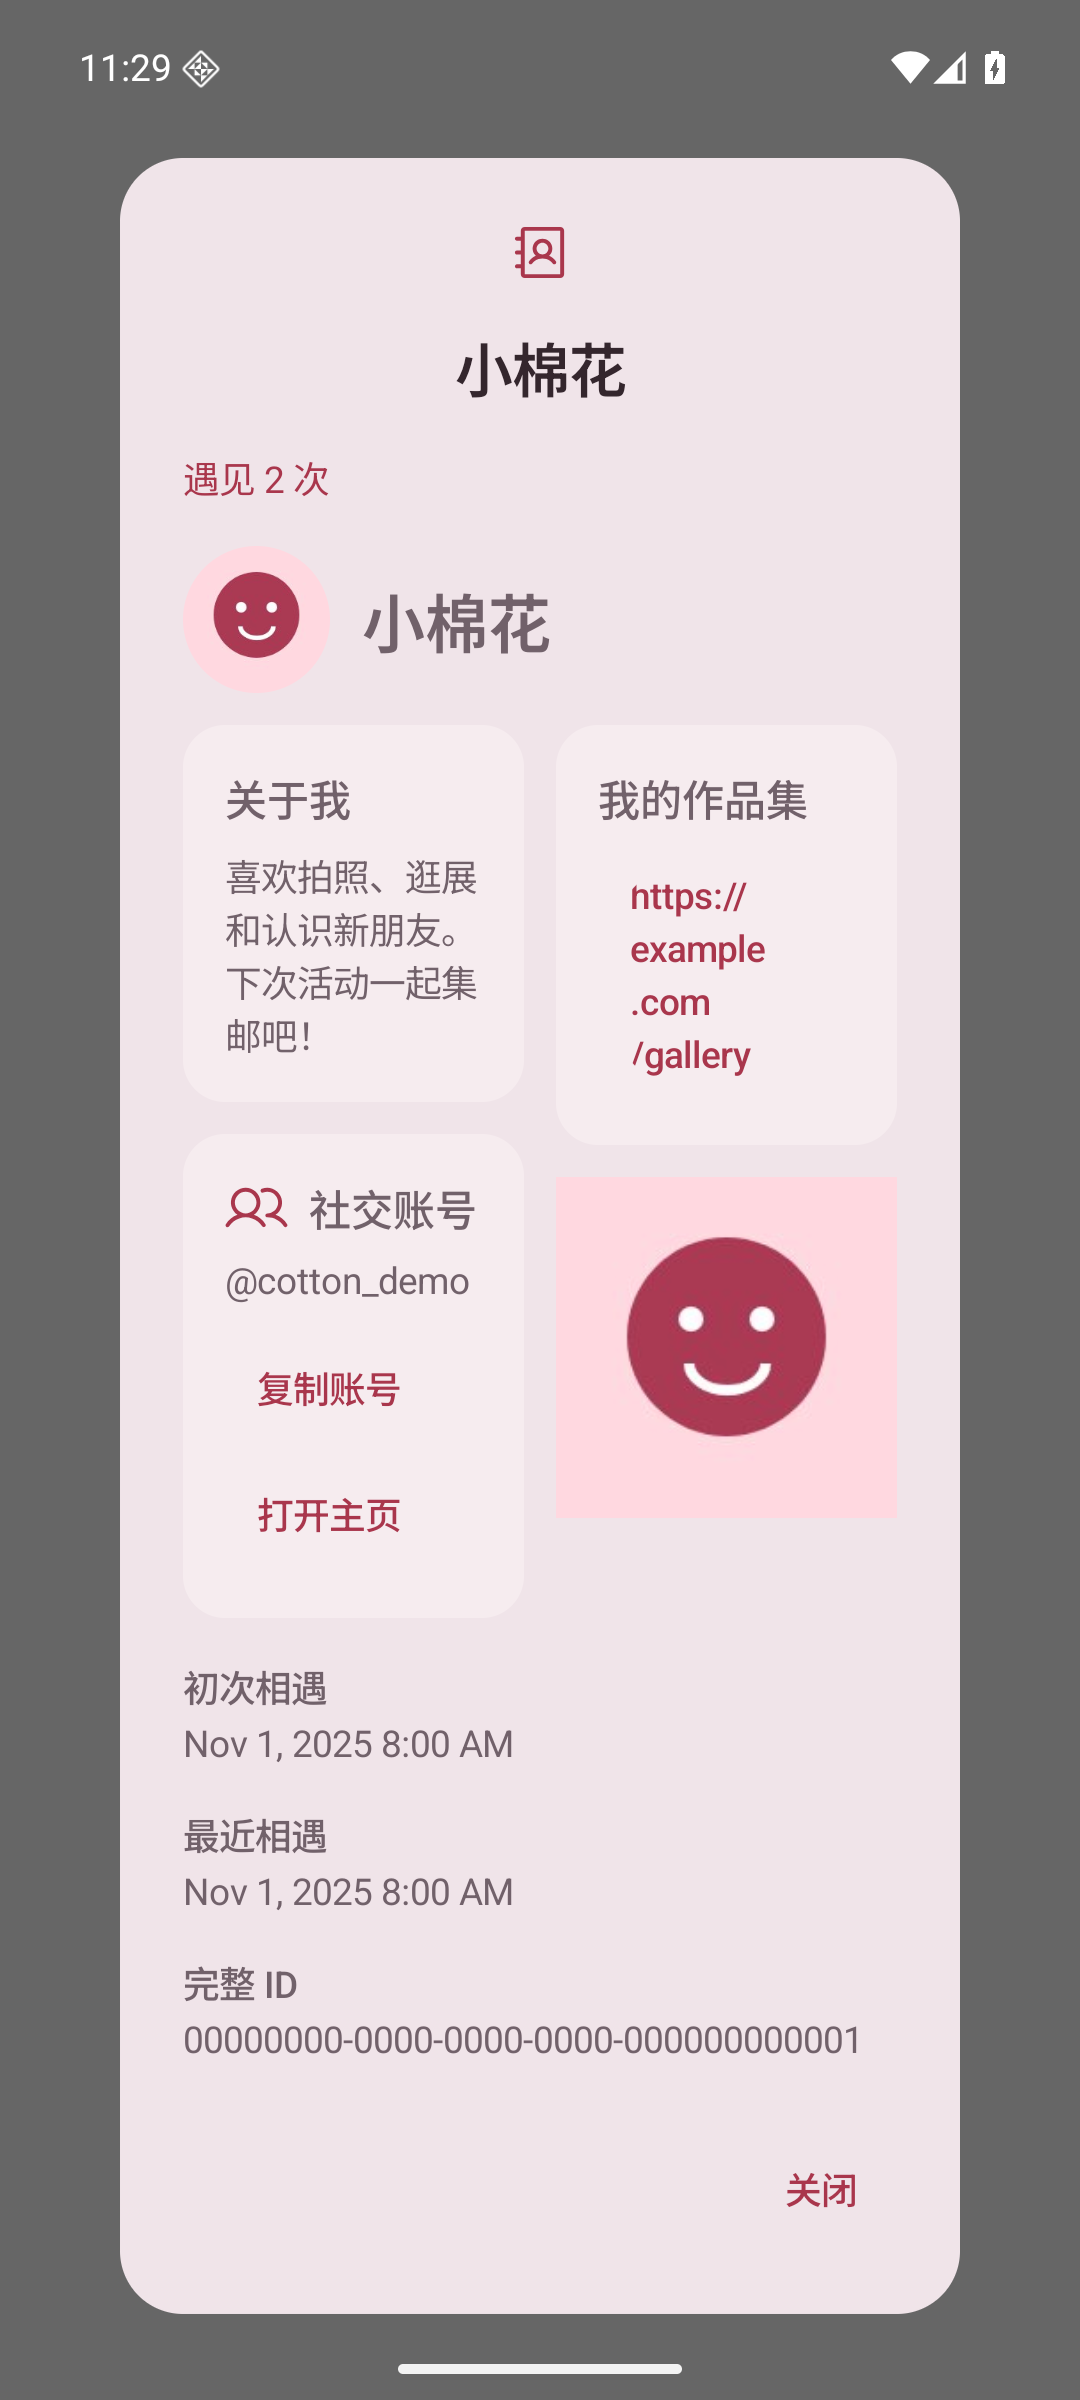
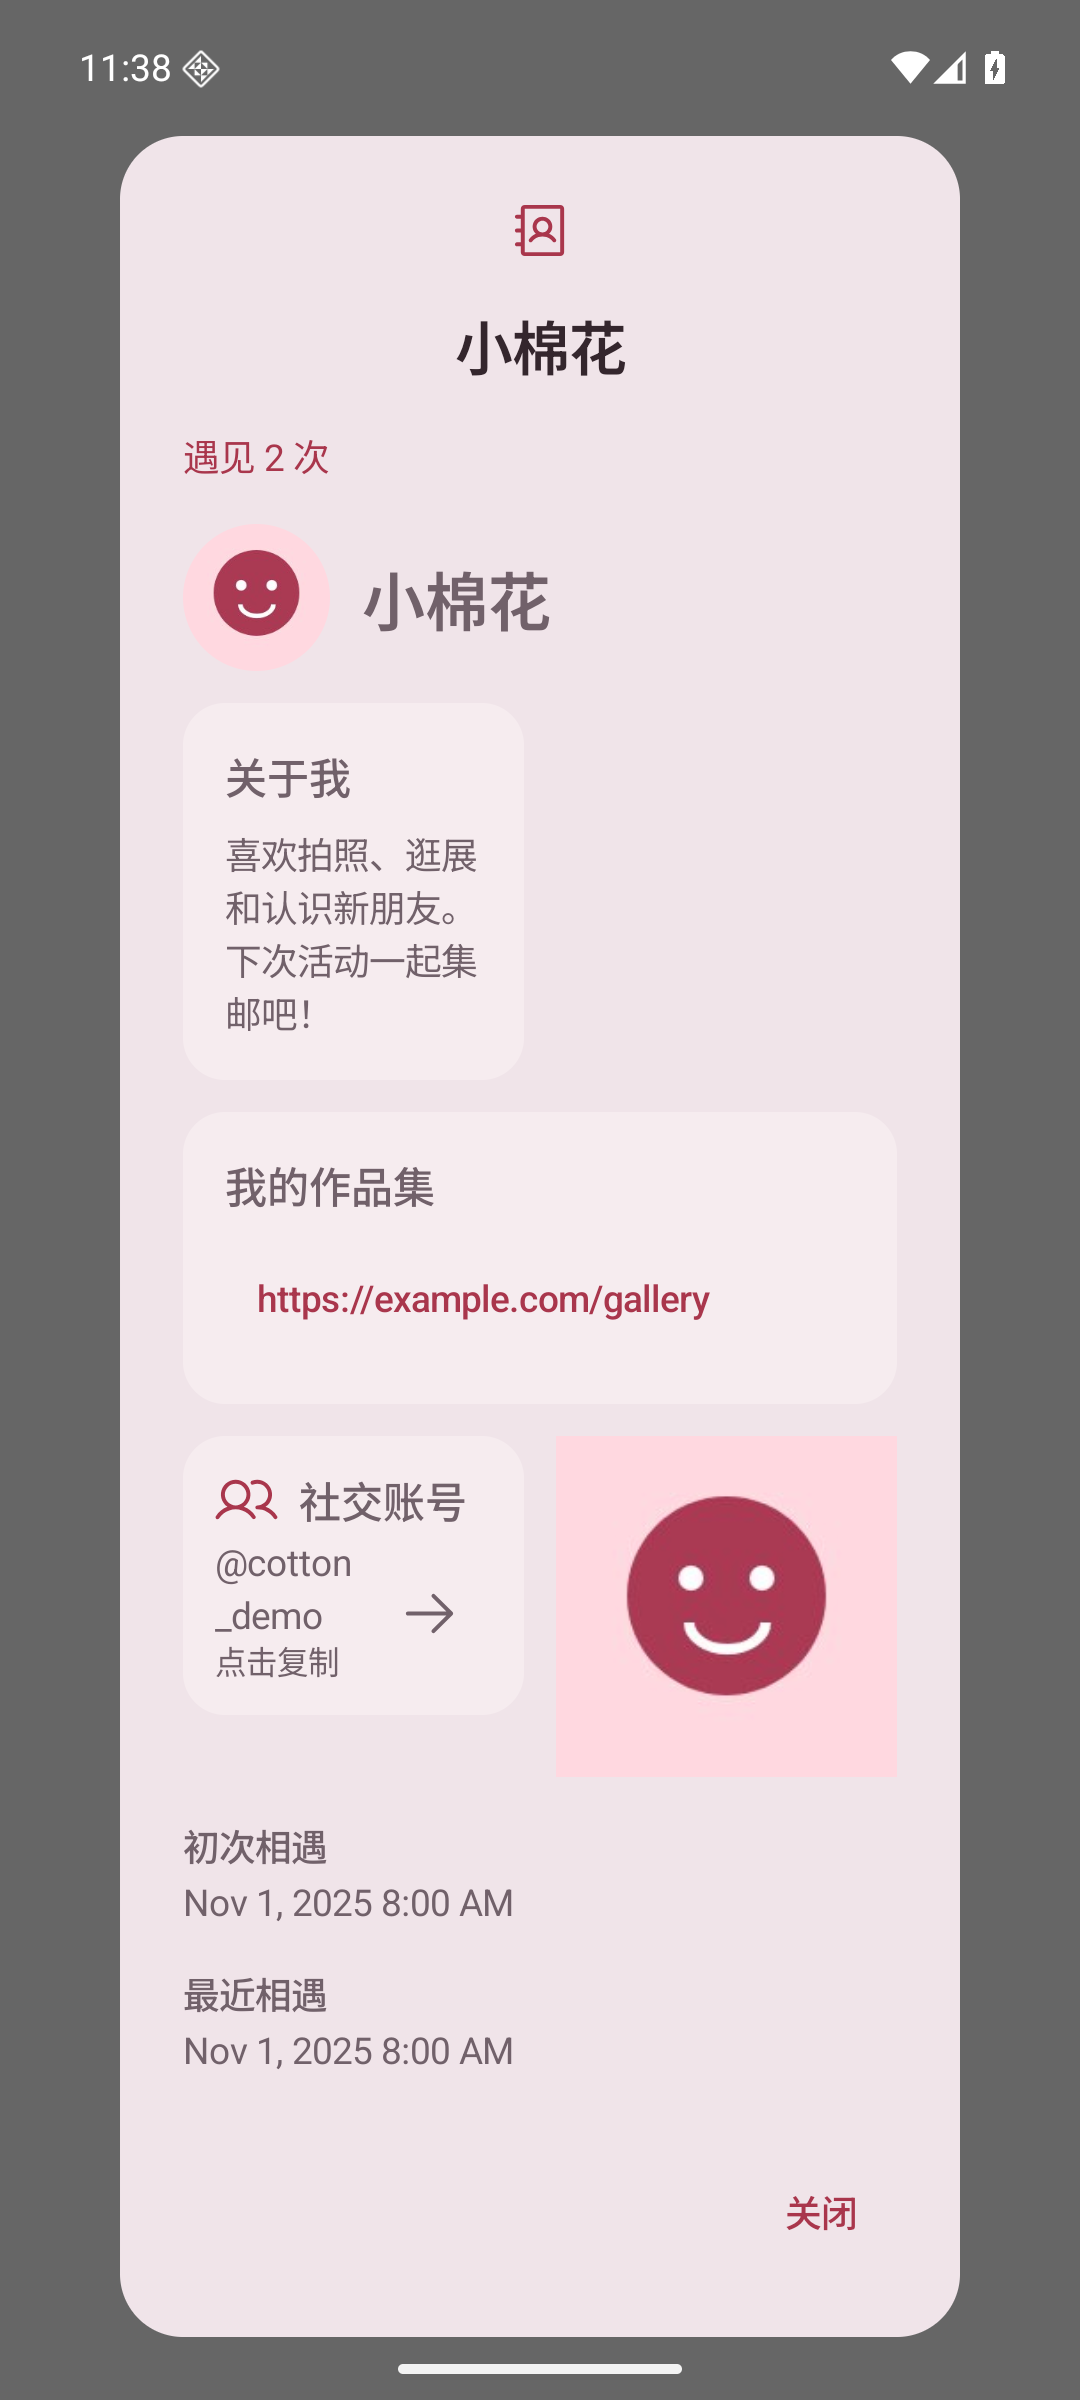
feat: 按内容密度设置卡片默认占格

diff --git a/app/src/main/kotlin/app/pengwa/ui/SocialAccounts.kt b/app/src/main/kotlin/app/pengwa/ui/SocialAccounts.kt
@@ -11,6 +11,10 @@ import androidx.compose.ui.platform.LocalContext
 import androidx.compose.ui.focus.onFocusChanged
 import androidx.compose.ui.res.painterResource
 import androidx.compose.ui.unit.dp
+import androidx.compose.ui.text.style.TextOverflow
+import androidx.compose.ui.semantics.semantics
+import androidx.compose.ui.semantics.contentDescription
+import androidx.compose.ui.semantics.stateDescription
 import app.pengwa.R
 import app.pengwa.identity.CardBlock
 import app.pengwa.identity.SocialPlatform
@@ -38,20 +42,35 @@ internal fun SocialAccountBlock(block: CardBlock, onOpen: (String) -> Unit) {
     val context = LocalContext.current
     var copied by remember(block.text, block.title) { mutableStateOf(false) }
     val profile = block.socialProfileUrl()
-    Surface(shape = MaterialTheme.shapes.medium, color = MaterialTheme.colorScheme.surfaceContainer) {
-        Column(Modifier.fillMaxWidth().padding(16.dp), verticalArrangement = Arrangement.spacedBy(8.dp)) {
+    Surface(
+        onClick = {
+            context.getSystemService(ClipboardManager::class.java)
+                .setPrimaryClip(ClipData.newPlainText(label, block.text))
+            copied = true
+        },
+        enabled = block.text.isNotBlank(),
+        modifier = Modifier.semantics {
+            contentDescription = "$label，${block.text}，点击复制账号"
+            stateDescription = if (copied) "已复制" else ""
+        },
+        shape = MaterialTheme.shapes.medium,
+        color = MaterialTheme.colorScheme.surfaceContainer,
+    ) {
+        Column(Modifier.fillMaxWidth().padding(12.dp), verticalArrangement = Arrangement.spacedBy(4.dp)) {
             Row(verticalAlignment = Alignment.CenterVertically, horizontalArrangement = Arrangement.spacedBy(8.dp)) {
                 SocialIcon(platform)
                 Text(label, Modifier.weight(1f), style = MaterialTheme.typography.titleSmall)
             }
-            Text(block.text, style = MaterialTheme.typography.bodyMedium)
-            FlowRow(horizontalArrangement = Arrangement.spacedBy(4.dp)) {
-                TextButton(enabled = block.text.isNotBlank(), onClick = {
-                    context.getSystemService(ClipboardManager::class.java)
-                        .setPrimaryClip(ClipData.newPlainText(label, block.text))
-                    copied = true
-                }) { Text(if (copied) "已复制" else "复制账号") }
-                if (profile != null) TextButton(onClick = { onOpen(profile) }) { Text("打开主页") }
+            Row(verticalAlignment = Alignment.CenterVertically) {
+                Column(Modifier.weight(1f)) {
+                    Text(block.text, style = MaterialTheme.typography.bodyMedium,
+                        maxLines = 2, overflow = TextOverflow.Ellipsis)
+                    Text(if (copied) "已复制" else "点击复制", style = MaterialTheme.typography.labelSmall,
+                        color = MaterialTheme.colorScheme.onSurfaceVariant)
+                }
+                if (profile != null) IconButton(onClick = { onOpen(profile) }) {
+                    Icon(painterResource(R.drawable.ph_arrow_right), contentDescription = "打开${label}主页")
+                }
             }
         }
     }

diff --git a/app/src/main/kotlin/app/pengwa/ui/CardMasonry.kt b/app/src/main/kotlin/app/pengwa/ui/CardMasonry.kt
@@ -7,23 +7,29 @@ import androidx.compose.ui.layout.Layout
 import androidx.compose.ui.unit.Constraints
 import androidx.compose.ui.unit.constrainHeight
 import androidx.compose.ui.unit.dp
+import app.pengwa.identity.BlockType
 
-/** At most twelve blocks: measure once, then place each next block in the shortest column.
+/** At most twelve blocks: measure once, then place each next block in the lowest available column group.
  * Own no scroll container so cards also work inside dialogs and the editor's scrolling preview.
  */
 @Composable
-internal fun CardMasonry(content: @Composable () -> Unit) {
+internal fun CardMasonry(types: List<BlockType>, content: @Composable () -> Unit) {
     Layout(content = content, modifier = Modifier.fillMaxWidth()) { measurables, constraints ->
         val gap = 12.dp.roundToPx()
         val minColumnWidth = (128.dp.toPx() * fontScale.coerceAtLeast(1f)).toInt()
-        val columns = ((constraints.maxWidth + gap) / (minColumnWidth + gap)).coerceIn(1, minOf(3, measurables.size.coerceAtLeast(1)))
+        val columns = ((constraints.maxWidth + gap) / (minColumnWidth + gap)).coerceIn(1, 3)
         val columnWidth = ((constraints.maxWidth - gap * (columns - 1)) / columns).coerceAtLeast(1)
         val heights = IntArray(columns)
-        val placements = measurables.map { measurable ->
-            val column = heights.indices.minBy { heights[it] }
-            val y = heights[column]
-            val placeable = measurable.measure(Constraints.fixedWidth(columnWidth))
-            heights[column] += placeable.height + gap
+        val placements = measurables.mapIndexed { index, measurable ->
+            // Links get a horizontal two-cell footprint; other content keeps one cell.
+            // Keep the grid independent of item count so even a lone social block stays small.
+            val span = (if (types.getOrNull(index) == BlockType.Link) 2 else 1).coerceAtMost(columns)
+            val column = (0..columns - span).minBy { start ->
+                (start until start + span).maxOf { heights[it] }
+            }
+            val y = (column until column + span).maxOf { heights[it] }
+            val placeable = measurable.measure(Constraints.fixedWidth(columnWidth * span + gap * (span - 1)))
+            for (covered in column until column + span) heights[covered] = y + placeable.height + gap
             Triple(placeable, column * (columnWidth + gap), y)
         }
         val height = ((heights.maxOrNull() ?: 0) - gap).coerceAtLeast(0)

diff --git a/app/src/main/kotlin/app/pengwa/ui/UserCard.kt b/app/src/main/kotlin/app/pengwa/ui/UserCard.kt
@@ -46,7 +46,7 @@ internal fun UserCardContent(identity: Identity) {
             CardAvatar(identity)
             Text(identity.displayName, style = MaterialTheme.typography.titleLarge)
         }
-        CardMasonry {
+        CardMasonry(identity.card.blocks.map { it.type }) {
             identity.card.blocks.forEach { block ->
                 if (block.type == BlockType.Image) {
                     CardImage(block.image, block.title.ifBlank { "卡片图片" })

diff --git a/docs/screenshots/block-density/README.md b/docs/screenshots/block-density/README.md
@@ -1,0 +1,44 @@
+# 按内容密度设置默认占格
+
+链接横跨相邻两格，社交账号为紧凑一格；文字与图片为一格，按内容高度排布。列组放在当前最低的可用位置，覆盖的列共同更新高度，避免跨列重叠。网格列数只取决于可用宽度与字体大小，因此只有一个社交块也不会被拉成整行。窄屏或大字体空间不足时，链接自动回退到一列。
+
+社交块点击即可复制完整账号，显示“已复制”反馈；有主页链接时使用独立箭头入口。长账号最多显示两行，复制与无障碍描述保留完整账号。小图继续保持图片原比例及透明轮廓。
+
+## 环境与步骤
+
+运行中的 Debug APK，Android Emulator `sdk_gphone64_x86_64` / AVD `PengWaIcon`，Android 16 / API 36。默认 1080×2400，density 420，字体 1.0。截图均由 adb screencap 获取。姓名、UUID、账号、链接与笑脸图片均为合成测试数据。
+
+```sh
+adb -s emulator-5554 shell am force-stop app.pengwa.debug
+adb -s emulator-5554 shell am start -n app.pengwa.debug/app.pengwa.ui.UiPreviewActivity --es screen card-masonry
+# 六平台：card-social；收到的卡片：card-masonry-received
+# 编辑预览：card-masonry-editor，点击“预览”
+# 复制反馈：card-social，点击 QQ 卡片
+adb -s emulator-5554 shell cmd uimode night yes # no 恢复浅色
+# 窄屏大字体：840×1680，font_scale 1.5
+# 宽屏：1600×2560，font_scale 1.0
+# 最后 wm size reset，font_scale 恢复 1.0
+```
+
+## 同场景前后截图
+
+| 页面／状态 | 变更前 | 变更后 |
+| --- | --- | --- |
+| 混合卡片／浅色 | ![](mixed-before-light.png) | ![](mixed-after-light.png) |
+| 混合卡片／深色 | ![](mixed-before-dark.png) | ![](mixed-after-dark.png) |
+| 六平台／浅色 | ![](social-before-light.png) | ![](social-after-light.png) |
+| 六平台／深色 | ![](social-before-dark.png) | ![](social-after-dark.png) |
+| 收到的卡片／浅色 | ![](received-before-light.png) | ![](received-after-light.png) |
+| 收到的卡片／深色 | ![](received-before-dark.png) | ![](received-after-dark.png) |
+| 编辑预览／浅色 | ![](editor-preview-before-light.png) | ![](editor-preview-after-light.png) |
+| 编辑预览／深色 | ![](editor-preview-before-dark.png) | ![](editor-preview-after-dark.png) |
+
+[复制反馈](social-copied.png)；[宽屏六平台](social-wide.png)。
+窄屏大字体：[混合卡片顶部](../card-masonry/card-narrow-large-font.png)、[下滑后的单列链接](mixed-narrow-link.png)、[收到的卡片](../card-masonry/received-narrow-large-font.png)、[六平台](../social-platforms/card-narrow-large-font.png)。
+宽屏三列：[混合卡片](../card-masonry/card-wide.png)，链接占两列，第三列可继续摆放其他块。
+
+## 验证
+
+- 独立工作目录仅包含本 PR 源码，执行 `testDebugUnitTest assembleDebug lintDebug` 成功，183 项单元测试通过，Lint 无 error。
+- 模拟器检查混合卡片、收到的卡片、编辑预览的跨列链接与紧凑社交块，以及浅／深主题、窄屏大字体、宽屏三列和复制反馈。
+- 本次只调整展示布局，不改变保存或蓝牙传输格式。双真机 BLE / NFC / 扫码交换仍未验证。

diff --git a/docs/protocol.md b/docs/protocol.md
@@ -50,7 +50,7 @@ NFC 和新版二维码共用 `exchange/PeerDiscovery.kt`：
 - 所有社媒块均可复制账号；显式填写的 HTTP(S) 分享链接优先。未填写链接时，bilibili 数字 UID、X 和 Telegram 的安全用户名可生成访问链接（支持前导 @）；QQ、微信、小红书只按原账号展示和复制，不根据账号猜测主页地址。不会验证账号是否真实存在。
 - 系统图片选择器导入时先缩小再重新编码，移除原始元数据；小图有 alpha 通道时使用 PNG 保留透明轮廓，其余使用 JPEG。头像最长边 192 像素，小图最长边 384 像素；单图压缩后最多 12 KiB；超限时继续等比例缩小。
 - 接收端校验 Base64、JPEG 或 PNG 首尾标志和体积；展示前检查图像尺寸不超过 1024×1024，不能解码时显示占位提示。
-- 卡片内容按顺序放入当前较短的列，使用 1–3 列自适应瀑布流；随可用宽度和字体比例减少列数，单个块占完整宽度。展示与编辑预览共用布局，编辑操作仍为有序列表。
+- 卡片内容按顺序放入当前较低的连续列组，使用 1–3 列自适应瀑布流；链接默认横跨两格，社交、文字和图片默认一格，随可用宽度和字体比例减少列数。单个社交块仍保持一格，链接在列数不足时回退到一列。默认占格只影响展示，不新增传输字段。展示与编辑预览共用布局，编辑操作仍为有序列表。
 - 小图块在预览和收到的卡片中只展示图片，不展示标题、卡片底框或圆角裁剪；编辑区不提供小图标题输入。横图、竖图和透明不规则图按原比例缩放到可用空间。旧标题保留作无障碍描述，不改变原数据格式。
 - 整张编码后的卡片上限 96 KiB；超限保存失败，编辑草稿保留。
 

diff --git a/docs/screenshots/social-platforms/README.md b/docs/screenshots/social-platforms/README.md
@@ -1,6 +1,6 @@
 # 六个社交平台与内置图标
 
-支持 QQ、微信、bilibili、小红书、X、Telegram；编辑时直接选择平台，卡片展示图标、平台名与账号，提供复制账号按钮。
+支持 QQ、微信、bilibili、小红书、X、Telegram；编辑时直接选择平台，卡片展示图标、平台名与账号，点击紧凑的一格卡片复制账号，主页入口使用独立箭头按钮。
 
 图标使用随应用打包的 Simple Icons 矢量资源，离线显示，颜色跟随应用主题。来源和许可见 [third_party](../../../third_party/README.md)。
 
@@ -36,7 +36,7 @@ adb shell cmd uimode night yes  # no 恢复浅色
 
 - `testDebugUnitTest assembleDebug lintDebug` 成功：183 项测试通过，Lint 无 error。
 - 新测试覆盖旧平台名识别、链接生成与显式分享链接优先、不安全用户名不拼入链接，以及六个平台沿原格式编码往返。
-- 模拟器检查六个平台图标、平台选择、复制按钮及深浅主题卡片展示。点击 QQ 的“复制账号”后显示“已复制”；编辑页从 QQ 切换 Telegram 后，账号字段标签同步变为“Telegram 用户名”。
+- 模拟器检查六个平台图标、平台选择、点击复制及深浅主题卡片展示。点击 QQ 卡片后显示“已复制”；编辑页从 QQ 切换 Telegram 后，账号字段标签同步变为“Telegram 用户名”。
 
 复制反馈：[截图](account-copied.png)；切换平台：[截图](platform-selected.png)。
 - 账号存在性、外部应用的登录／好友权限及真实平台跳转结果未验证；双真机交换仍按原 PR 未验证项保留。

diff --git a/README.md b/README.md
@@ -11,7 +11,7 @@
 
 ## 当前开发版本：可自定义用户卡片
 
-用户卡片新增头像，以及可添加、编辑、删除、排序的文字、链接、社媒和小图内容块，支持保存和预览。社媒内置 QQ、微信、bilibili、小红书、X、Telegram 及平台图标，支持复制账号和打开主页。内容区采用自适应瀑布流，让文字、链接、社媒和小图按各自高度错落排布；小图保留原始比例和透明轮廓，不加标题或底框。
+用户卡片新增头像，以及可添加、编辑、删除、排序的文字、链接、社媒和小图内容块，支持保存和预览。社媒内置 QQ、微信、bilibili、小红书、X、Telegram 及平台图标，支持复制账号和打开主页。内容区采用自适应瀑布流，链接默认横跨两格，社交为紧凑一格，文字和小图按内容高度错落排布，窄屏自动回退；小图保留原始比例和透明轮廓，不加标题或底框。
 **扫码、附近蓝牙列表和 NFC 碰一碰都只负责识别对方，完整卡片统一通过蓝牙 BLE 分块交换。**
 只有完整接收并确认后才入集邮册；二维码与 NFC 识别本身不再导入名片。扫码后需对方确认蓝牙申请；NFC 双向识别可短时自动确认对应设备。
 

diff --git a/docs/screenshots/card-masonry/README.md b/docs/screenshots/card-masonry/README.md
@@ -1,9 +1,9 @@
 # 自适应瀑布流卡片
 
-卡片内容区按内容高度错落排布：依次把块放入当前较短的列，保持各块自己的高度。
+卡片内容区按内容高度错落排布：依次把块放入当前较低的连续列组，保持各块自己的高度。链接默认横跨两格，社交、文字和图片默认一格。
 文字、链接、社媒与图片共用同一布局；小图继续只有图片，不增加标题、底框或裁切。
 
-普通手机使用两列，宽屏最多三列；窄屏、大字体或仅一个内容块时减少到一列。
+普通手机使用两列，宽屏最多三列；窄屏或大字体时减少到一列；单个社交块仍保持一格，单个链接默认占两格，列数不足时自动回退。
 编辑操作仍为可排序列表，点击“预览”后使用与收到的卡片相同的瀑布流。布局自身不新增滚动容器。
 
 ## 环境与复现

diff --git a/docs/screenshots/custom-card/README.md b/docs/screenshots/custom-card/README.md
@@ -104,3 +104,5 @@ bash gradlew testDebugUnitTest assembleDebug lintDebug --console=plain
 内容区瀑布流与屏幕适配的前后对比见 [瀑布流截图](../card-masonry/README.md)。
 
 六个平台、内置图标和账号操作见 [社交账号截图](../social-platforms/README.md)。
+
+按内容密度设置默认占格的前后对比见 [默认占格截图](../block-density/README.md)。
